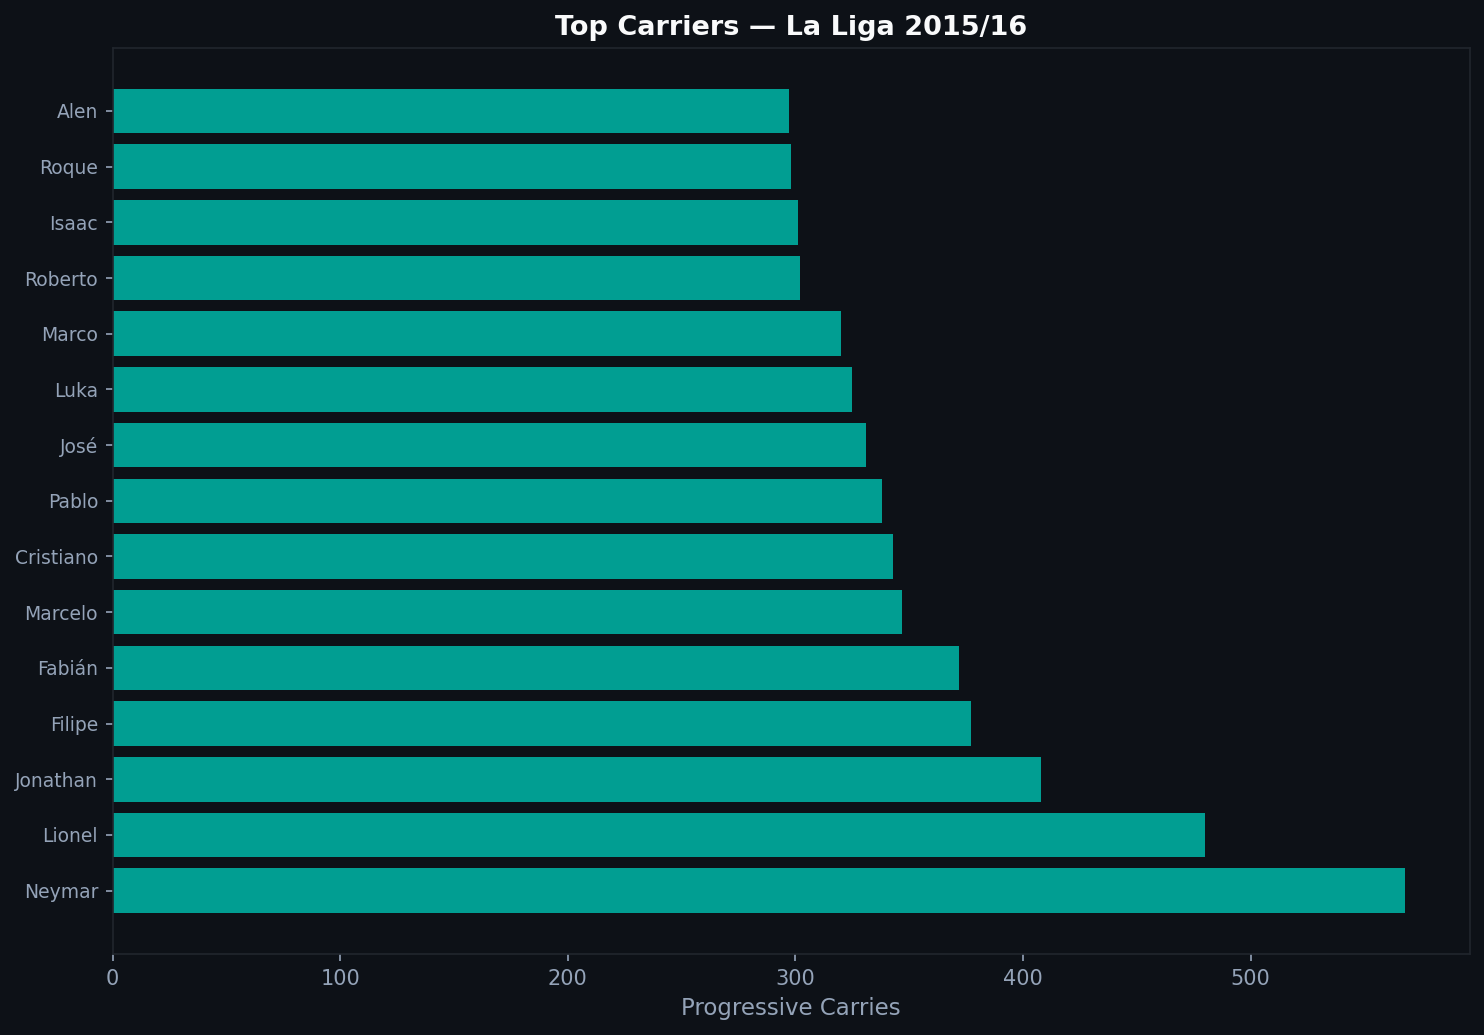
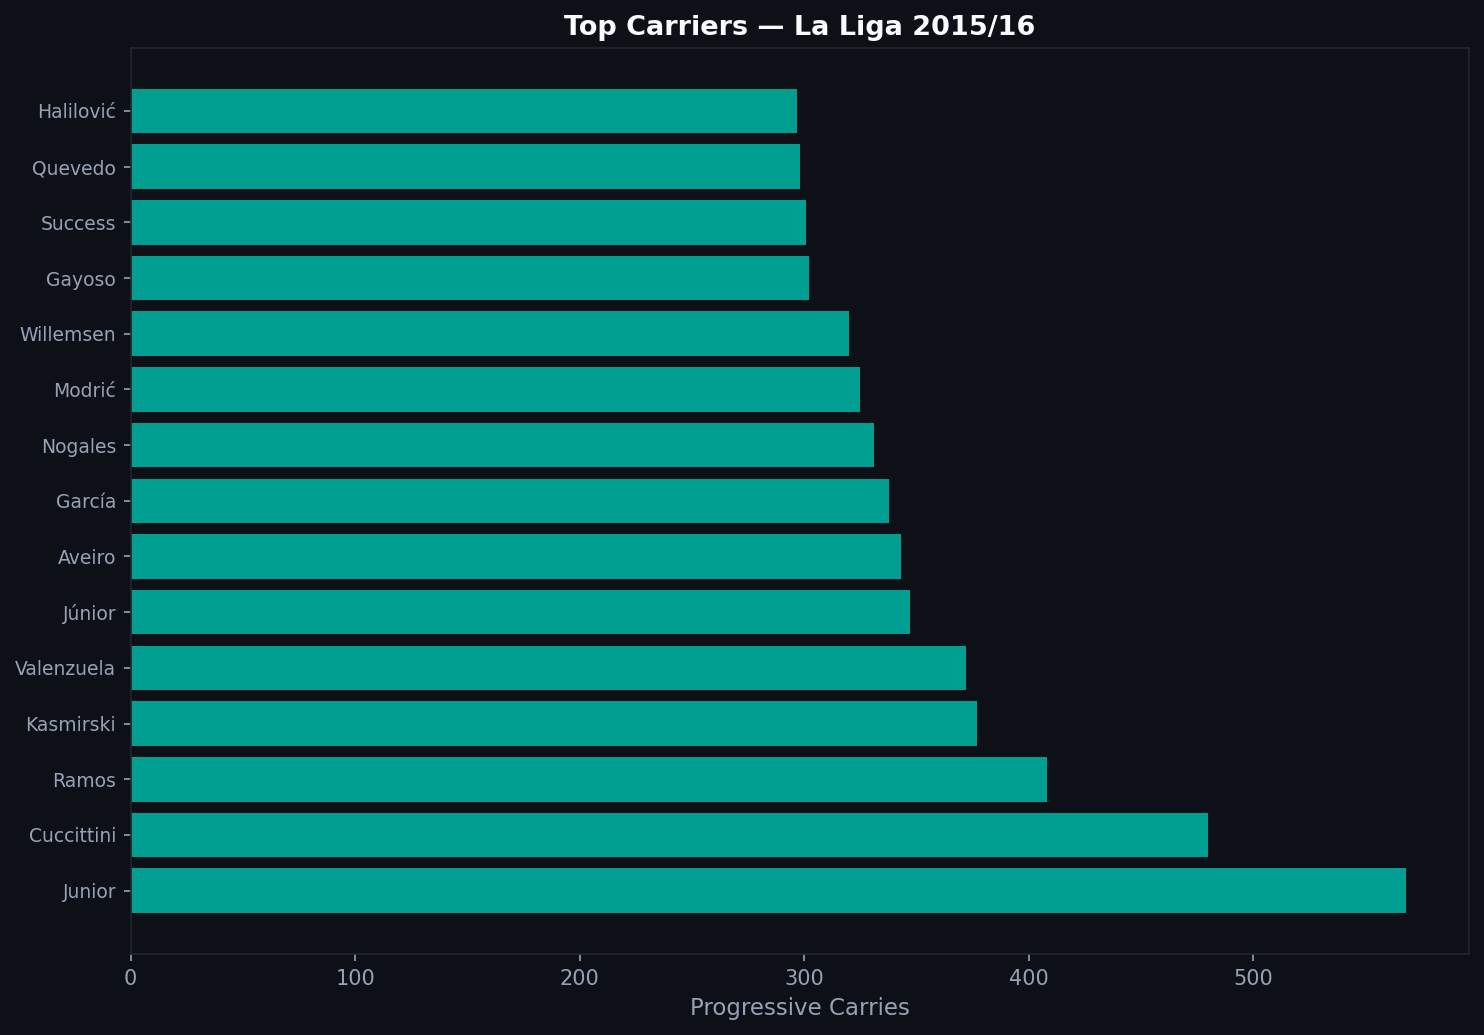
Fix player labels in 2.5 carries chart: use last names instead of first names

diff --git a/02_Tactical_Analysis/2.5_Carries/generate_figures.py b/02_Tactical_Analysis/2.5_Carries/generate_figures.py
@@ -1,0 +1,119 @@
+import sys
+import os
+import ast
+import pandas as pd
+import matplotlib.pyplot as plt
+import numpy as np
+
[1 lines of base64/hex data omitted]
+from data_loader import load_competitions, load_matches, load_events, flatten_events
+from pitch import draw_pitch
+
+FIGURES = 'figures'
+os.makedirs(FIGURES, exist_ok=True)
+
+comp_df = load_competitions()
+row = comp_df[(comp_df['competition_name'] == 'La Liga') & (comp_df['season_name'] == '2015/2016')].iloc[0]
+matches = load_matches(row['competition_id'], row['season_id'])
+
+def parse_loc(s):
+    try:
+        v = ast.literal_eval(s) if isinstance(s, str) else s
+        return float(v[0]), float(v[1])
+    except Exception:
+        return None, None
+
+all_carries = []
+print(f'Loading carries from {len(matches)} matches...')
+for i, match_id in enumerate(matches['match_id']):
+    if i % 50 == 0:
+        print(f'  {i}/{len(matches)}')
+    try:
+        raw = load_events(match_id)
+        df = flatten_events(raw)
+        carries = df[df['type'] == 'Carry'].copy()
+        if carries.empty:
+            continue
+        keep = ['player', 'team', 'x', 'y', 'carry_end_location']
+        existing = [c for c in keep if c in carries.columns]
+        all_carries.append(carries[existing])
+    except Exception:
+        continue
+
+if not all_carries:
+    print('No carry data')
+    exit()
+
+carries_df = pd.concat(all_carries, ignore_index=True)
+
+loc_parsed = carries_df['carry_end_location'].apply(parse_loc)
+carries_df['carry_end_x'] = [v[0] for v in loc_parsed]
+carries_df['carry_end_y'] = [v[1] for v in loc_parsed]
+carries_df = carries_df.dropna(subset=['x', 'y', 'carry_end_x', 'carry_end_y'])
+
+carries_df['dx'] = carries_df['carry_end_x'] - carries_df['x']
+carries_df['dy'] = carries_df['carry_end_y'] - carries_df['y']
+carries_df['distance'] = np.sqrt(carries_df['dx']**2 + carries_df['dy']**2)
+carries_df['progressive'] = (carries_df['dx'] > 5) & (carries_df['x'] > 40)
+
+print(f'Total carries: {len(carries_df)} | Progressive: {carries_df["progressive"].sum()}')
+
+# ── Figure 1: Arrow map of Barcelona progressive carries ──────────────────────
+barca = carries_df[(carries_df['team'] == 'Barcelona') & carries_df['progressive'] & (carries_df['distance'] > 5)]
+sample = barca.sample(min(200, len(barca)), random_state=42)
+
+fig, ax = plt.subplots(figsize=(14, 9))
+fig.patch.set_facecolor('#0D1117')
+draw_pitch(ax, color='#0D1117', line_color='#21262D')
+for _, row in sample.iterrows():
+    ax.annotate('', xy=(row['carry_end_x'], row['carry_end_y']),
+                xytext=(row['x'], row['y']),
+                arrowprops=dict(arrowstyle='->', color='#00B8A9', lw=1.2, alpha=0.5))
+ax.set_title('Barcelona — Progressive Carries, La Liga 2015/16', color='#F9FAFB', fontweight='bold', fontsize=13)
+plt.tight_layout()
+plt.savefig(f'{FIGURES}/progressive_carries_arrows.png', dpi=150, bbox_inches='tight', facecolor='#0D1117')
+plt.close()
+print('Saved progressive_carries_arrows.png')
+
+# ── Figure 2: Top players by progressive carries ─────────────────────────────
+player_carries = carries_df[carries_df['progressive']].groupby('player').size().reset_index(name='prog_carries')
+player_carries = player_carries.sort_values('prog_carries', ascending=False).head(15)
+player_carries['short'] = player_carries['player'].apply(lambda p: p.split()[-1] if len(p.split()) > 1 else p)
+
+fig2, ax2 = plt.subplots(figsize=(10, 7))
+fig2.patch.set_facecolor('#0D1117')
+ax2.set_facecolor('#0D1117')
+ax2.barh(range(len(player_carries)), player_carries['prog_carries'], color='#00B8A9', alpha=0.85)
+ax2.set_yticks(range(len(player_carries)))
+ax2.set_yticklabels(player_carries['short'], color='#F9FAFB', fontsize=9)
+ax2.set_xlabel('Progressive Carries', color='#94A3B8', fontsize=11)
+ax2.set_title('Top Carriers — La Liga 2015/16', color='#F9FAFB', fontweight='bold', fontsize=13)
+ax2.tick_params(colors='#94A3B8')
+ax2.spines[:].set_color('#21262D')
+plt.tight_layout()
+plt.savefig(f'{FIGURES}/top_carriers.png', dpi=150, bbox_inches='tight', facecolor='#0D1117')
+plt.close()
+print('Saved top_carriers.png')
+
+# ── Figure 3: Carry zone heatmap ──────────────────────────────────────────────
+from mplsoccer import Pitch
+
+fig3, (ax3a, ax3b) = plt.subplots(1, 2, figsize=(18, 7))
+fig3.patch.set_facecolor('#0D1117')
+pitch = Pitch(pitch_type='statsbomb', pitch_color='#0D1117', line_color='#21262D', line_zorder=2)
+
+for ax, team, title in [(ax3a, 'Barcelona', 'Barcelona — Carry Start Zones'),
+                         (ax3b, 'Real Madrid', 'Real Madrid — Carry Start Zones')]:
+    pitch.draw(ax=ax)
+    tc = carries_df[carries_df['team'] == team]
+    if tc.empty:
+        continue
+    stats = pitch.bin_statistic(tc['x'], tc['y'], statistic='count', bins=(24, 16))
+    pitch.heatmap(stats, ax=ax, cmap='YlGn', edgecolors='#0D1117', alpha=0.85)
+    ax.set_title(title, color='#F9FAFB', fontweight='bold', fontsize=12)
+
+plt.tight_layout()
+plt.savefig(f'{FIGURES}/carry_heatmap.png', dpi=150, bbox_inches='tight', facecolor='#0D1117')
+plt.close()
+print('Saved carry_heatmap.png')
+print('All 2.5 figures done.')
